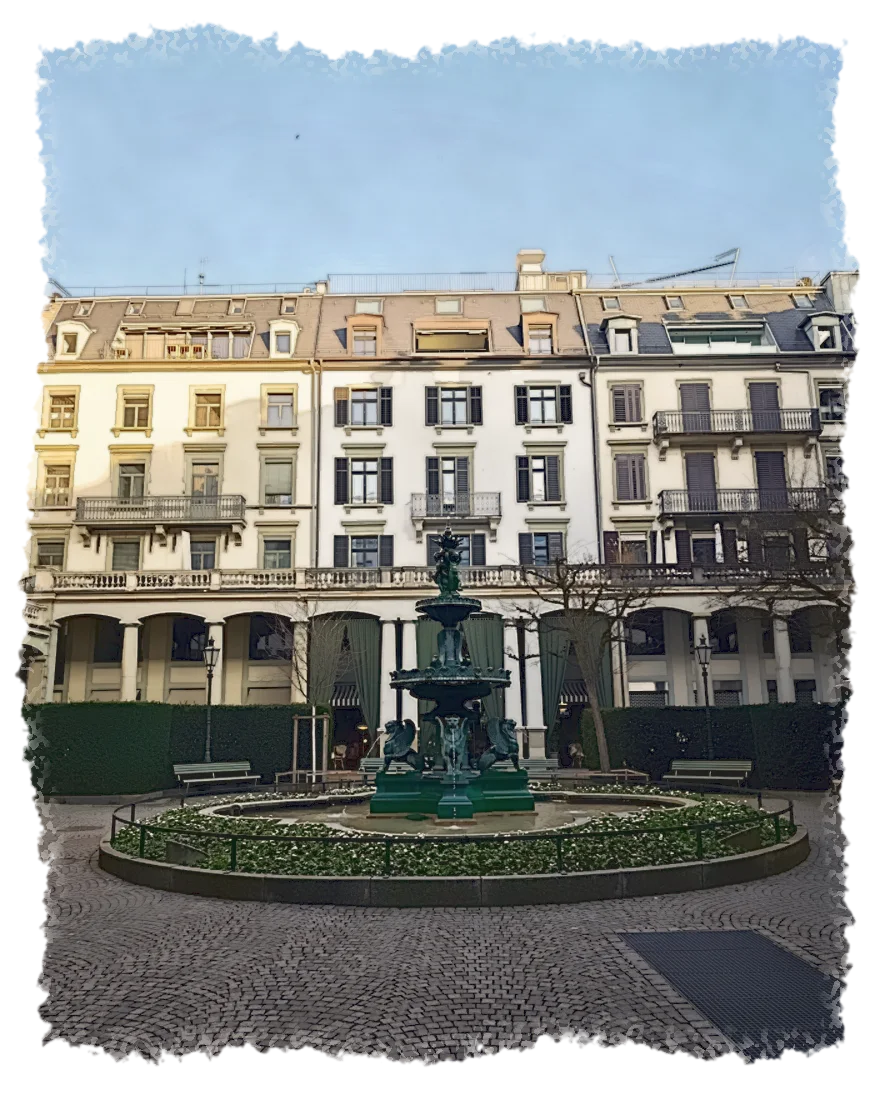
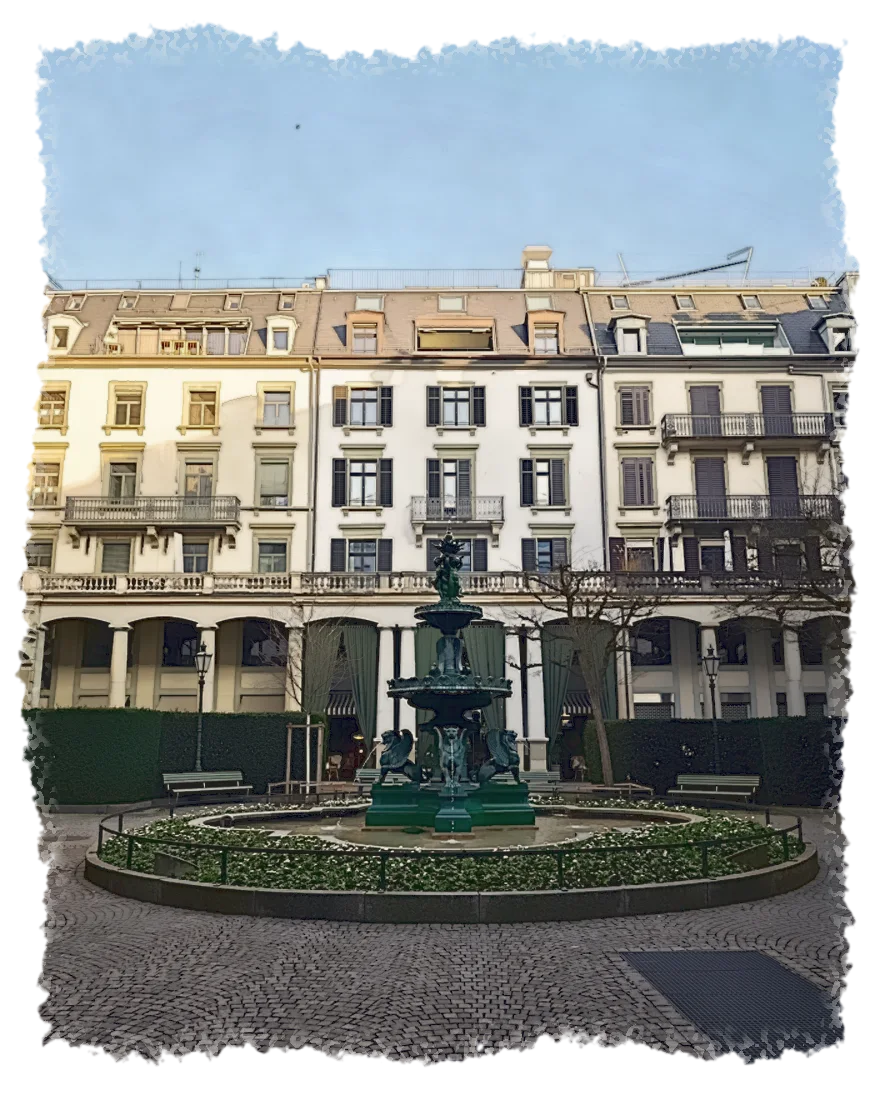
Level the courtyard painting (0.6°)
Claude-Session: https://claude.ai/code/session_01NGvW8y4aypVsC6WPXTU7ib

diff --git a/house.html b/house.html
@@ -82,7 +82,7 @@ body{position:relative}
     <p>It began as a table for <em>seven</em>. The name has changed since; the number has not.</p>
   </div>
 </main>
-<img class="paint boat" src="img/maison-baer-5-innenhof.webp" alt="A courtyard with a fountain in Zürich, painted" width="880" height="1100" decoding="async">
+<img class="paint boat" src="img/maison-baer-5-innenhof.webp?v=2" alt="A courtyard with a fountain in Zürich, painted" width="880" height="1100" decoding="async">
 </div>
 
 <footer><span>© Maison Baer 2026</span><a href="legal.html">Legal Notice</a></footer>
